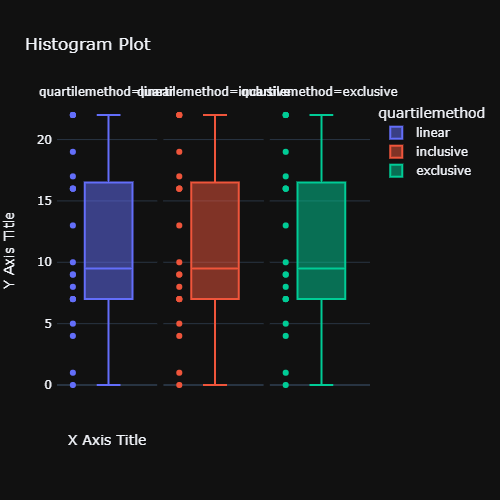
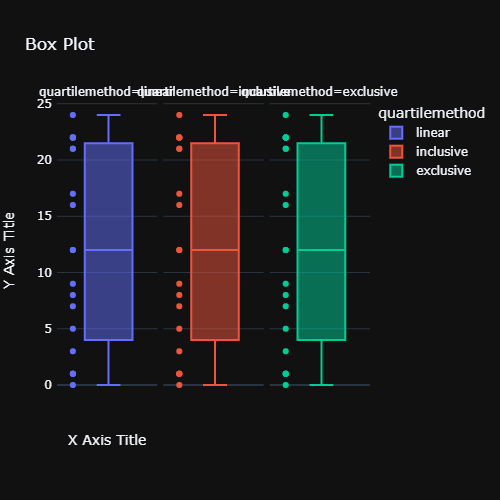
updated

diff --git a/BoxPlot/boxplot.py b/BoxPlot/boxplot.py
@@ -17,7 +17,7 @@ fig = plot.box(df, y="value", facet_col="quartilemethod", color="quartilemethod"
 fig.layout.template = 'plotly_dark'
 
 fig.update_layout(
-    title='Histogram Plot',
+    title='Box Plot',
     xaxis_title='X Axis Title',
     yaxis_title='Y Axis Title',
     xaxis_tickangle=-30,
